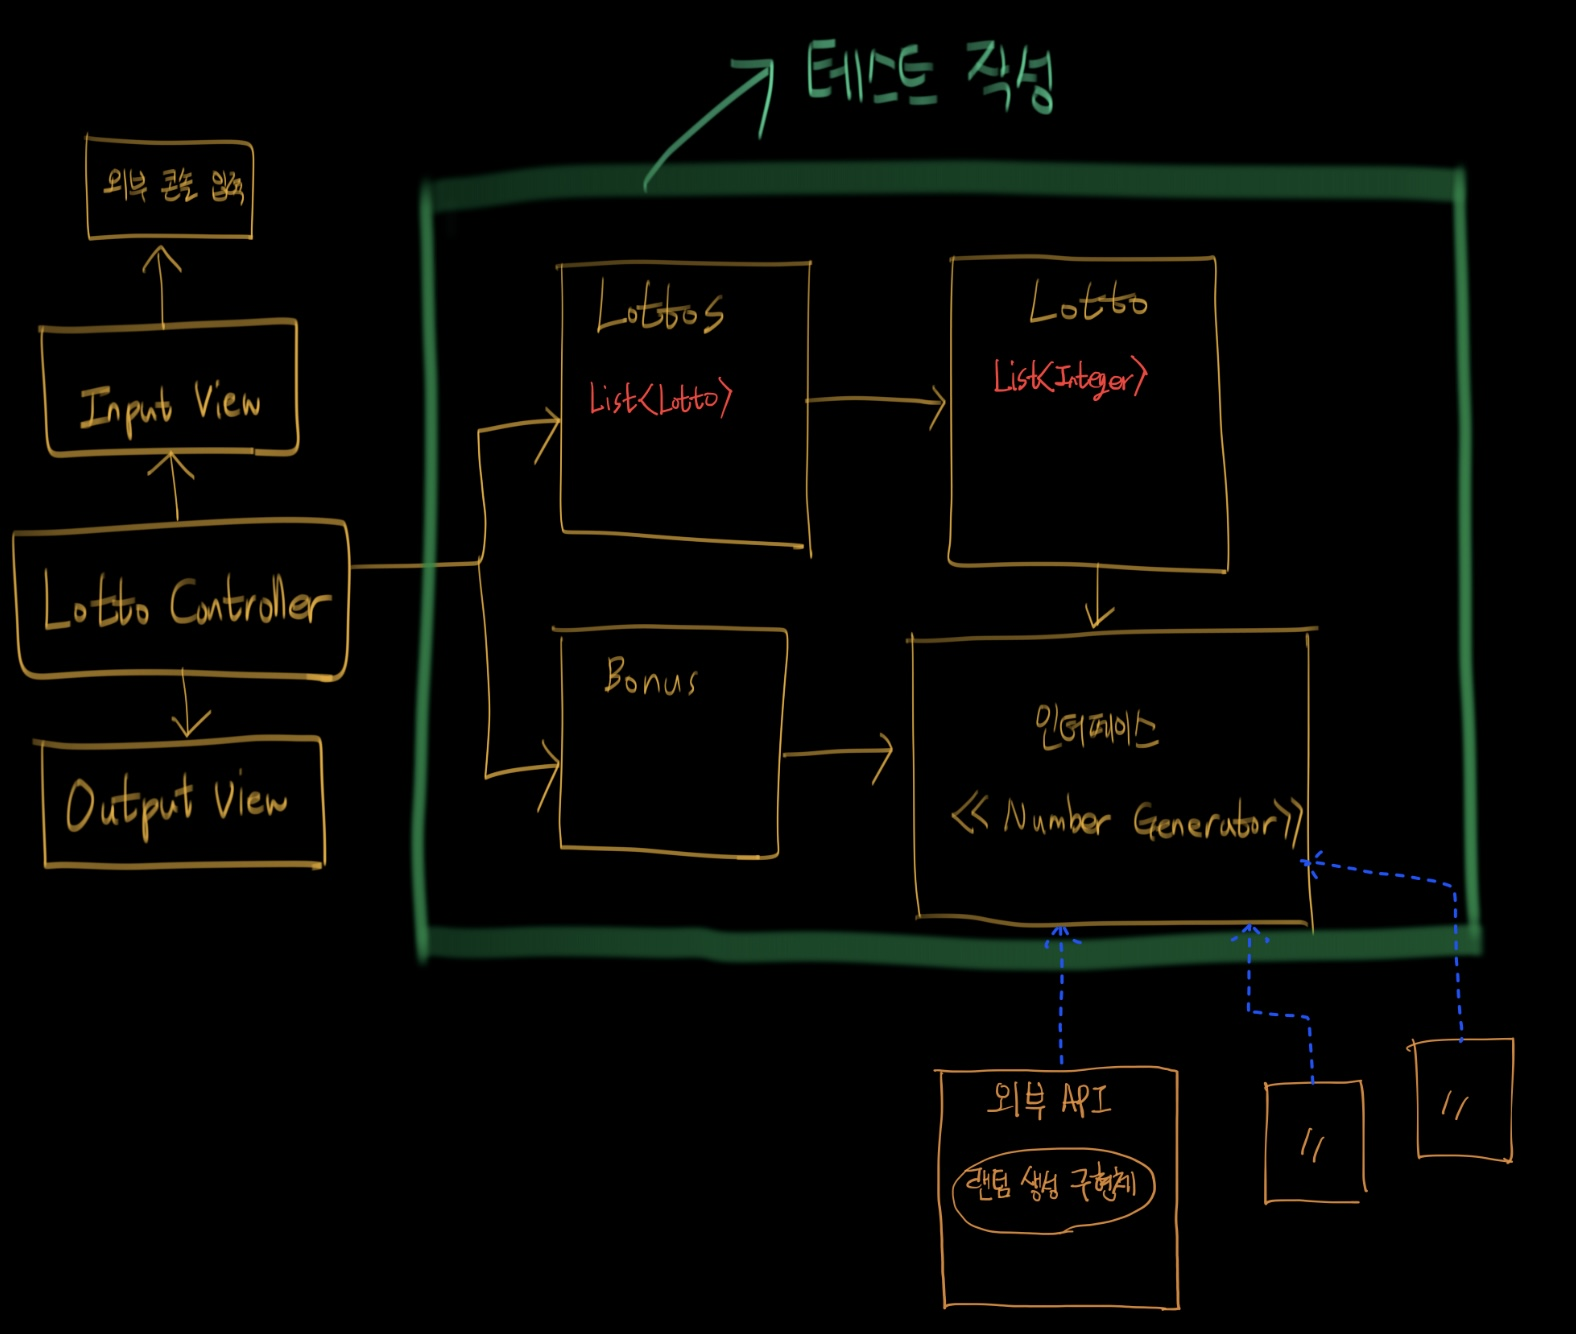
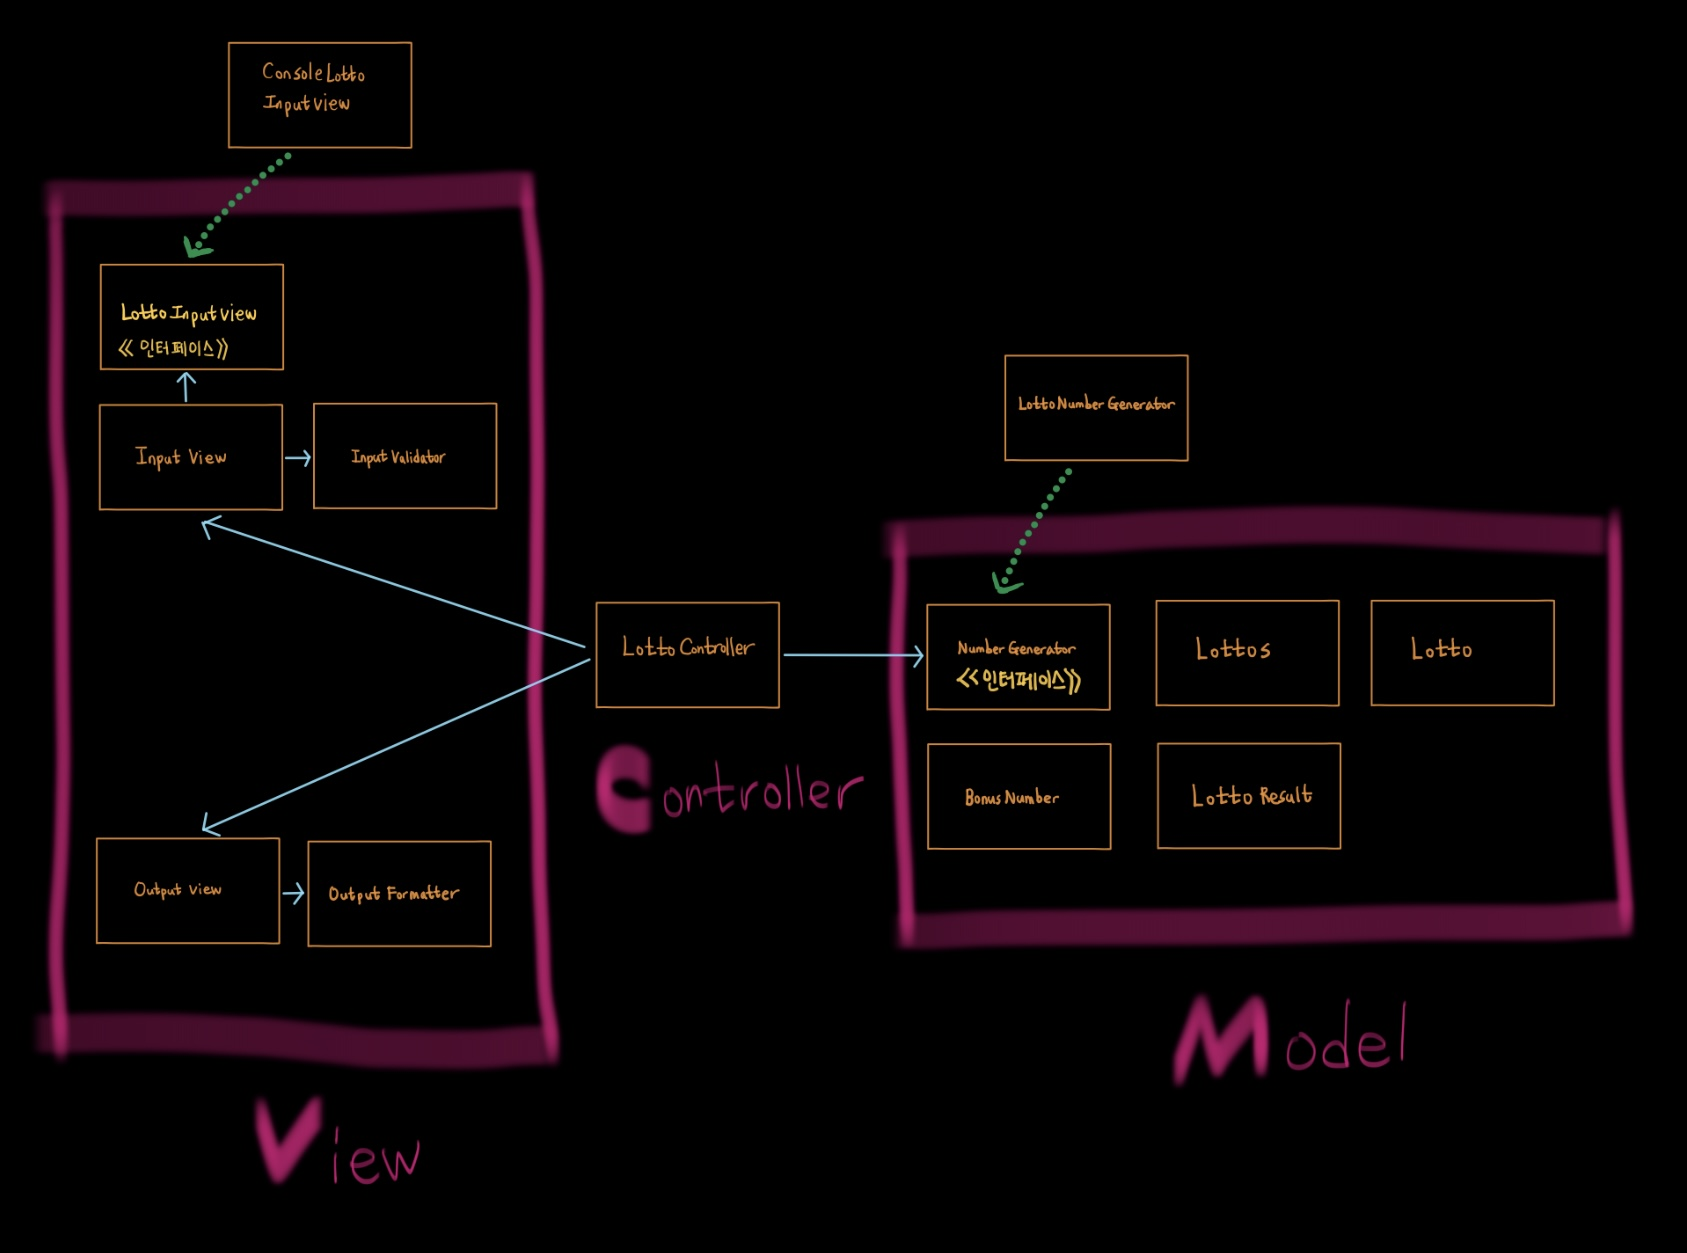
docs: 요구사항 업데이트
- 구현에 맞게 요구사항을 최신으로 갱신
- 객체관계도 그림 갱신

diff --git a/docs/README.md b/docs/README.md
@@ -6,37 +6,54 @@
 ## 요구사항 정리
 
 
-Lotto
-- [x] Lotto를 생성한다.
-  - [x] 예외 : 로또 숫자는 6자리여야 한다.
-  - [x] 예외 : 로또 숫자는 중복될 수 없다.
-- [x] Lotto가 주어지면 일치하는 개수를 구한다.
-- [x] 보너스 금액이 주어지면 일치하는 번호가 있는지 판단한다.
-- [x] LottoDto로 변환한다.
+### Lotto(Class)
+- [✅] Lotto를 생성한다.
+  - [✅] 예외(IllegalArgumentException) : 로또 숫자는 6자리여야 한다. 
+  - [✅] 예외(IllegalArgumentException) : 로또 숫자는 중복될 수 없다.
+- [✅] Lotto가 주어지면 일치하는 개수를 구한다.
+- [✅] 보너스 금액이 주어지면 일치하는 번호가 있는지 판단한다.
+- [✅] LottoDto로 변환한다.
 
-Lottos
-- [x] Lottos를 생성한다.
-- [x] 가지고있는 모든 로또들에대한 결과를 구한다.
-- [x] List<LottoDto>로 변환한다.
+### Lottos(Class)
+- [✅] Lottos를 생성한다.
+- [✅] 당첨번호와 보너스 번호가 주어지면 모든 로또들 결과를 구한다.
+- [✅] List<LottoDto>로 변환한다.
 
-Bonus
-- [x] 보너스 번호를 생성한다.
-  - [x] 예외 : 범위는 1 ~45여야 한다.
+### BonusNumber(Class)
+- [✅] 보너스 번호를 생성한다.
+  - [✅] 예외(IllegalArgumentException) : 범위는 1 ~45여야 한다.
+- [✅] 로또번호가 주어지면 보너스번호가 포함되어있는지 판단한다.
 
-NumberGenerator(인터페이스) -> LottoNumberGenerator(구현체)
-- [x] 번호 6개를 랜덤으로 생성한다. -> NumberGenerator를 사용하는 클래스에서 테스트하자.
+### <<NumberGenerator>> - LottoNumberGenerator(Class)
+- [✅] 1 ~ 45번호 6개를 랜덤으로 생성한다.
 
-LottoController
+### LottoResult(Enum)
+- [✅] 당첨번호와 보너스 번호를 맞춘 결과에 따라 로또 결과를 생성한다.
+- [✅] 값에따라 당첨금을 반환한다.
 
-InputView
-- [x] 구입 금액을 입력받는다.
-  - [x] 올바른 형태의 값이 들어올때 까지 반복해서 입력받는다.
-  - [x] 올바른 형태의 값이 아니라면 "[ERROR]"로 시작하는 에러 메세지를 출력한다.
-- [x] 당첨 번호를 입력받는다.
-- [x] 보너스 번호를 입력받는다.
+### StringParser(Class)
+- [✅] "1,2,3,4,5,6"형태의 문자열을 List형으로 split한다.
 
-OutputView
-- [x] 구매 개수와 구매한 모든 로또 번호를 출력한다.
-  - [x] 출력할 때 오름차순으로 정렬해서 출력한다.
-- [x] 당첨 통계를 출력한다.
-- [x] 수익률을 출력한다.
+### InputView(Class)
+- [✅] 구입 금액을 입력받는다.
+  - [✅] 올바른 형태의 값이 들어올때 까지 반복해서 입력받는다.
+  - [✅] 올바른 형태의 값이 아니라면 "[ERROR]"로 시작하는 에러 메세지를 출력한다.
+- [✅] 당첨 번호를 입력받는다.
+- [✅] 보너스 번호를 입력받는다.
+
+### InputValidator(Class)
+- [✅] 예외(IllegalArgumentException) : 입력값은 숫자형태여야한다.
+- [✅] 예외(IllegalArgumentException) : 입력값은 로또가격으로 나누어지는 형태여야 한다.
+- [✅] 예외(IllegalArgumentException) : 입력값은 0보다 커야한다.
+- [✅] 예외(IllegalArgumentException) : 입력값은 "1,2,3,4,5,6" 형식이어야 한다.
+
+### OutputView(Class)
+- [✅] 구매 개수와 구매한 모든 로또 번호를 출력한다.
+  - [✅] 출력할 때 오름차순으로 정렬해서 출력한다.
+- [✅] 당첨 통계를 출력한다.
+- [✅] 수익률을 출력한다.
+
+### OutputFormatter(Class)
+- [✅] 로또들을 출력양식을 만든다.
+- [✅] 로또당첨결과 양식을 만든다.
+- [✅] 수익률 결과 양식을 만든다.
